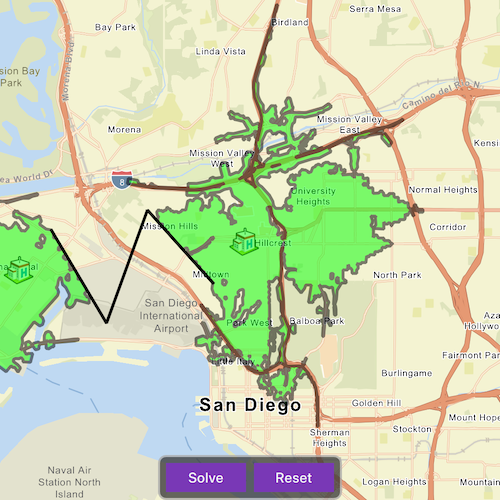
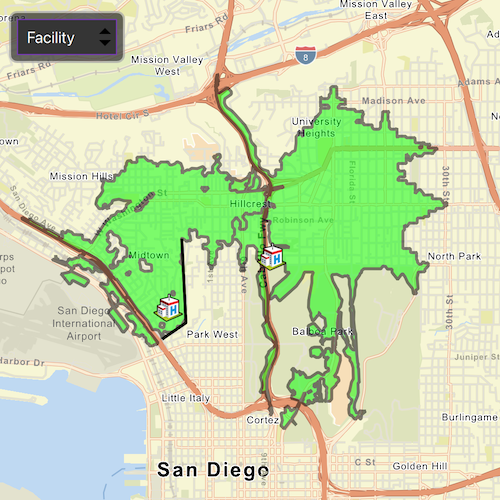
Rendering order update and screenshot update.

diff --git a/CppSamples/Routing/ServiceArea/ServiceArea.cpp b/CppSamples/Routing/ServiceArea/ServiceArea.cpp
@@ -55,10 +55,9 @@
 
 using namespace Esri::ArcGISRuntime;
 
-ServiceArea::ServiceArea(QQuickItem* parent /* = nullptr */):
+ServiceArea::ServiceArea(QQuickItem* parent /* = nullptr */) :
   QQuickItem(parent),
-  m_task(new ServiceAreaTask(
-           QUrl("https://sampleserver6.arcgisonline.com/arcgis/rest/services/NetworkAnalysis/SanDiego/NAServer/ServiceArea"), this))
+  m_task(new ServiceAreaTask(QUrl("https://sampleserver6.arcgisonline.com/arcgis/rest/services/NetworkAnalysis/SanDiego/NAServer/ServiceArea"), this))
 {
 }
 
@@ -88,10 +87,14 @@ void ServiceArea::componentComplete()
   connect(m_task, &ServiceAreaTask::doneLoading, this, [this](const Error& loadError)
   {
     if (!loadError.isEmpty())
+    {
       return;
+    }
 
     if (m_task->loadStatus() != LoadStatus::Loaded)
+    {
       return;
+    }
 
     setupRouting();
   });
@@ -110,7 +113,9 @@ void ServiceArea::setBarrierMode()
   m_mode = SampleMode::Barrier;
 
   if (m_barrierBuilder)
+  {
     return;
+  }
 
   m_barrierBuilder = new PolylineBuilder(SpatialReference::webMercator(), this);
 }
@@ -137,7 +142,9 @@ void ServiceArea::solveServiceArea()
   {
     Graphic* g = facilitiesGraphics->at(f);
     if (!g)
+    {
       continue;
+    }
 
     facilities.append(ServiceAreaFacility(geometry_cast<Point>(g->geometry())));
   }
@@ -150,15 +157,20 @@ void ServiceArea::solveServiceArea()
   {
     Graphic* g = barrierGraphics->at(b);
     if (!g)
+    {
       continue;
+    }
 
     barriers.append(PolylineBarrier(geometry_cast<Polyline>(g->geometry())));
   }
 
   if (!barriers.isEmpty())
+  {
     m_parameters.setPolylineBarriers(barriers);
+  }
 
-  m_task->solveServiceAreaAsync(m_parameters).then(this, [this](const ServiceAreaResult& serviceAreaResult)
+  m_task->solveServiceAreaAsync(m_parameters)
+    .then(this, [this](const ServiceAreaResult& serviceAreaResult)
   {
     setBusy(false);
     if (serviceAreaResult.isEmpty())
@@ -173,9 +185,13 @@ void ServiceArea::solveServiceArea()
     {
       const QList<ServiceAreaPolygon> results = serviceAreaResult.resultPolygons(i);
       if (!m_graphicParent)
+      {
         m_graphicParent = new QObject(this);
+      }
       for (const ServiceAreaPolygon& poly : results)
+      {
         m_areasOverlay->graphics()->append(new Graphic(poly.geometry(), m_graphicParent));
+      }
     }
   });
 }
@@ -207,7 +223,9 @@ void ServiceArea::newBarrier()
 
   setBarrierMode();
   if (!m_graphicParent)
+  {
     m_graphicParent = new QObject(this);
+  }
   m_barrierOverlay->graphics()->append(new Graphic(m_barrierBuilder->toPolyline(), m_graphicParent));
 }
 
@@ -224,7 +242,9 @@ QString ServiceArea::message() const
 void ServiceArea::setBusy(bool val)
 {
   if (m_busy == val)
+  {
     return;
+  }
 
   m_message.clear();
   m_busy = val;
@@ -235,8 +255,8 @@ void ServiceArea::setBusy(bool val)
 void ServiceArea::setupGraphics()
 {
   // create a symbol for the incidents
-  PictureMarkerSymbol* facilitySymbol = new PictureMarkerSymbol(
-        QUrl(QStringLiteral("https://static.arcgis.com/images/Symbols/SafetyHealth/Hospital.png")), this);
+  PictureMarkerSymbol* facilitySymbol =
+    new PictureMarkerSymbol(QUrl(QStringLiteral("https://static.arcgis.com/images/Symbols/SafetyHealth/Hospital.png")), this);
   facilitySymbol->setHeight(30);
   facilitySymbol->setWidth(30);
 
@@ -245,8 +265,6 @@ void ServiceArea::setupGraphics()
   SimpleRenderer* renderer = new SimpleRenderer(facilitySymbol, this);
   m_facilitiesOverlay->setRenderer(renderer);
 
-  m_mapView->graphicsOverlays()->append(m_facilitiesOverlay);
-
   // create a symbol for the barriers
   float lineWidth = 3.0f;
   SimpleLineSymbol* lineSymbol = new SimpleLineSymbol(SimpleLineSymbolStyle::Solid, Qt::black, lineWidth, this);
@@ -254,16 +272,17 @@ void ServiceArea::setupGraphics()
   SimpleRenderer* lineRenderer = new SimpleRenderer(lineSymbol, this);
   m_barrierOverlay->setRenderer(lineRenderer);
 
-  m_mapView->graphicsOverlays()->append(m_barrierOverlay);
-
-  //create a symbol for the service areas
+  // create a symbol for the service areas
   SimpleFillSymbol* fillSymbol = new SimpleFillSymbol(SimpleFillSymbolStyle::Solid, Qt::green, lineSymbol, this);
   m_areasOverlay = new GraphicsOverlay(this);
   SimpleRenderer* areaRenderer = new SimpleRenderer(fillSymbol, this);
   m_areasOverlay->setRenderer(areaRenderer);
   m_areasOverlay->setOpacity(0.5f);
 
+  // add in rendering order (bottom to top)
   m_mapView->graphicsOverlays()->append(m_areasOverlay);
+  m_mapView->graphicsOverlays()->append(m_barrierOverlay);
+  m_mapView->graphicsOverlays()->append(m_facilitiesOverlay);
 }
 
 void ServiceArea::setupRouting()
@@ -271,14 +290,17 @@ void ServiceArea::setupRouting()
   connect(m_mapView, &MapQuickView::mouseClicked, this, [this](QMouseEvent& mouseEvent)
   {
     if (busy())
+    {
       return;
+    }
 
-    switch (m_mode) {
-    case SampleMode::Barrier:
-    case SampleMode::Facility:
-      break;
-    default:
-      return;
+    switch (m_mode)
+    {
+      case SampleMode::Barrier:
+      case SampleMode::Facility:
+        break;
+      default:
+        return;
     }
 
     setBusy(true);
@@ -287,9 +309,13 @@ void ServiceArea::setupRouting()
     Point projectedPoint(mapPoint.x(), mapPoint.y(), SpatialReference::webMercator());
 
     if (m_mode == SampleMode::Barrier)
+    {
       handleBarrierPoint(projectedPoint);
-    else if(m_mode == SampleMode::Facility)
+    }
+    else if (m_mode == SampleMode::Facility)
+    {
       handleFacilityPoint(projectedPoint);
+    }
 
     setBusy(false);
   });
@@ -304,25 +330,31 @@ void ServiceArea::setupRouting()
   });
 }
 
-void ServiceArea::handleFacilityPoint(const Point &p)
+void ServiceArea::handleFacilityPoint(const Point& p)
 {
   if (!m_graphicParent)
+  {
     m_graphicParent = new QObject(this);
+  }
   m_facilitiesOverlay->graphics()->append(new Graphic(p, m_graphicParent));
 }
 
-void ServiceArea::handleBarrierPoint(const Point &p)
+void ServiceArea::handleBarrierPoint(const Point& p)
 {
   if (!m_graphicParent)
+  {
     m_graphicParent = new QObject(this);
+  }
   m_barrierBuilder->addPoint(p);
   // update the geometry for the current barrier - or create 1 if it does not exist
-  Graphic* barrier = m_barrierOverlay->graphics()->isEmpty() ?
-                       nullptr :
-                       m_barrierOverlay->graphics()->last();
+  Graphic* barrier = m_barrierOverlay->graphics()->isEmpty() ? nullptr : m_barrierOverlay->graphics()->last();
 
   if (barrier)
+  {
     barrier->setGeometry(m_barrierBuilder->toPolyline());
+  }
   else
+  {
     m_barrierOverlay->graphics()->append(new Graphic(m_barrierBuilder->toPolyline(), m_graphicParent));
+  }
 }
